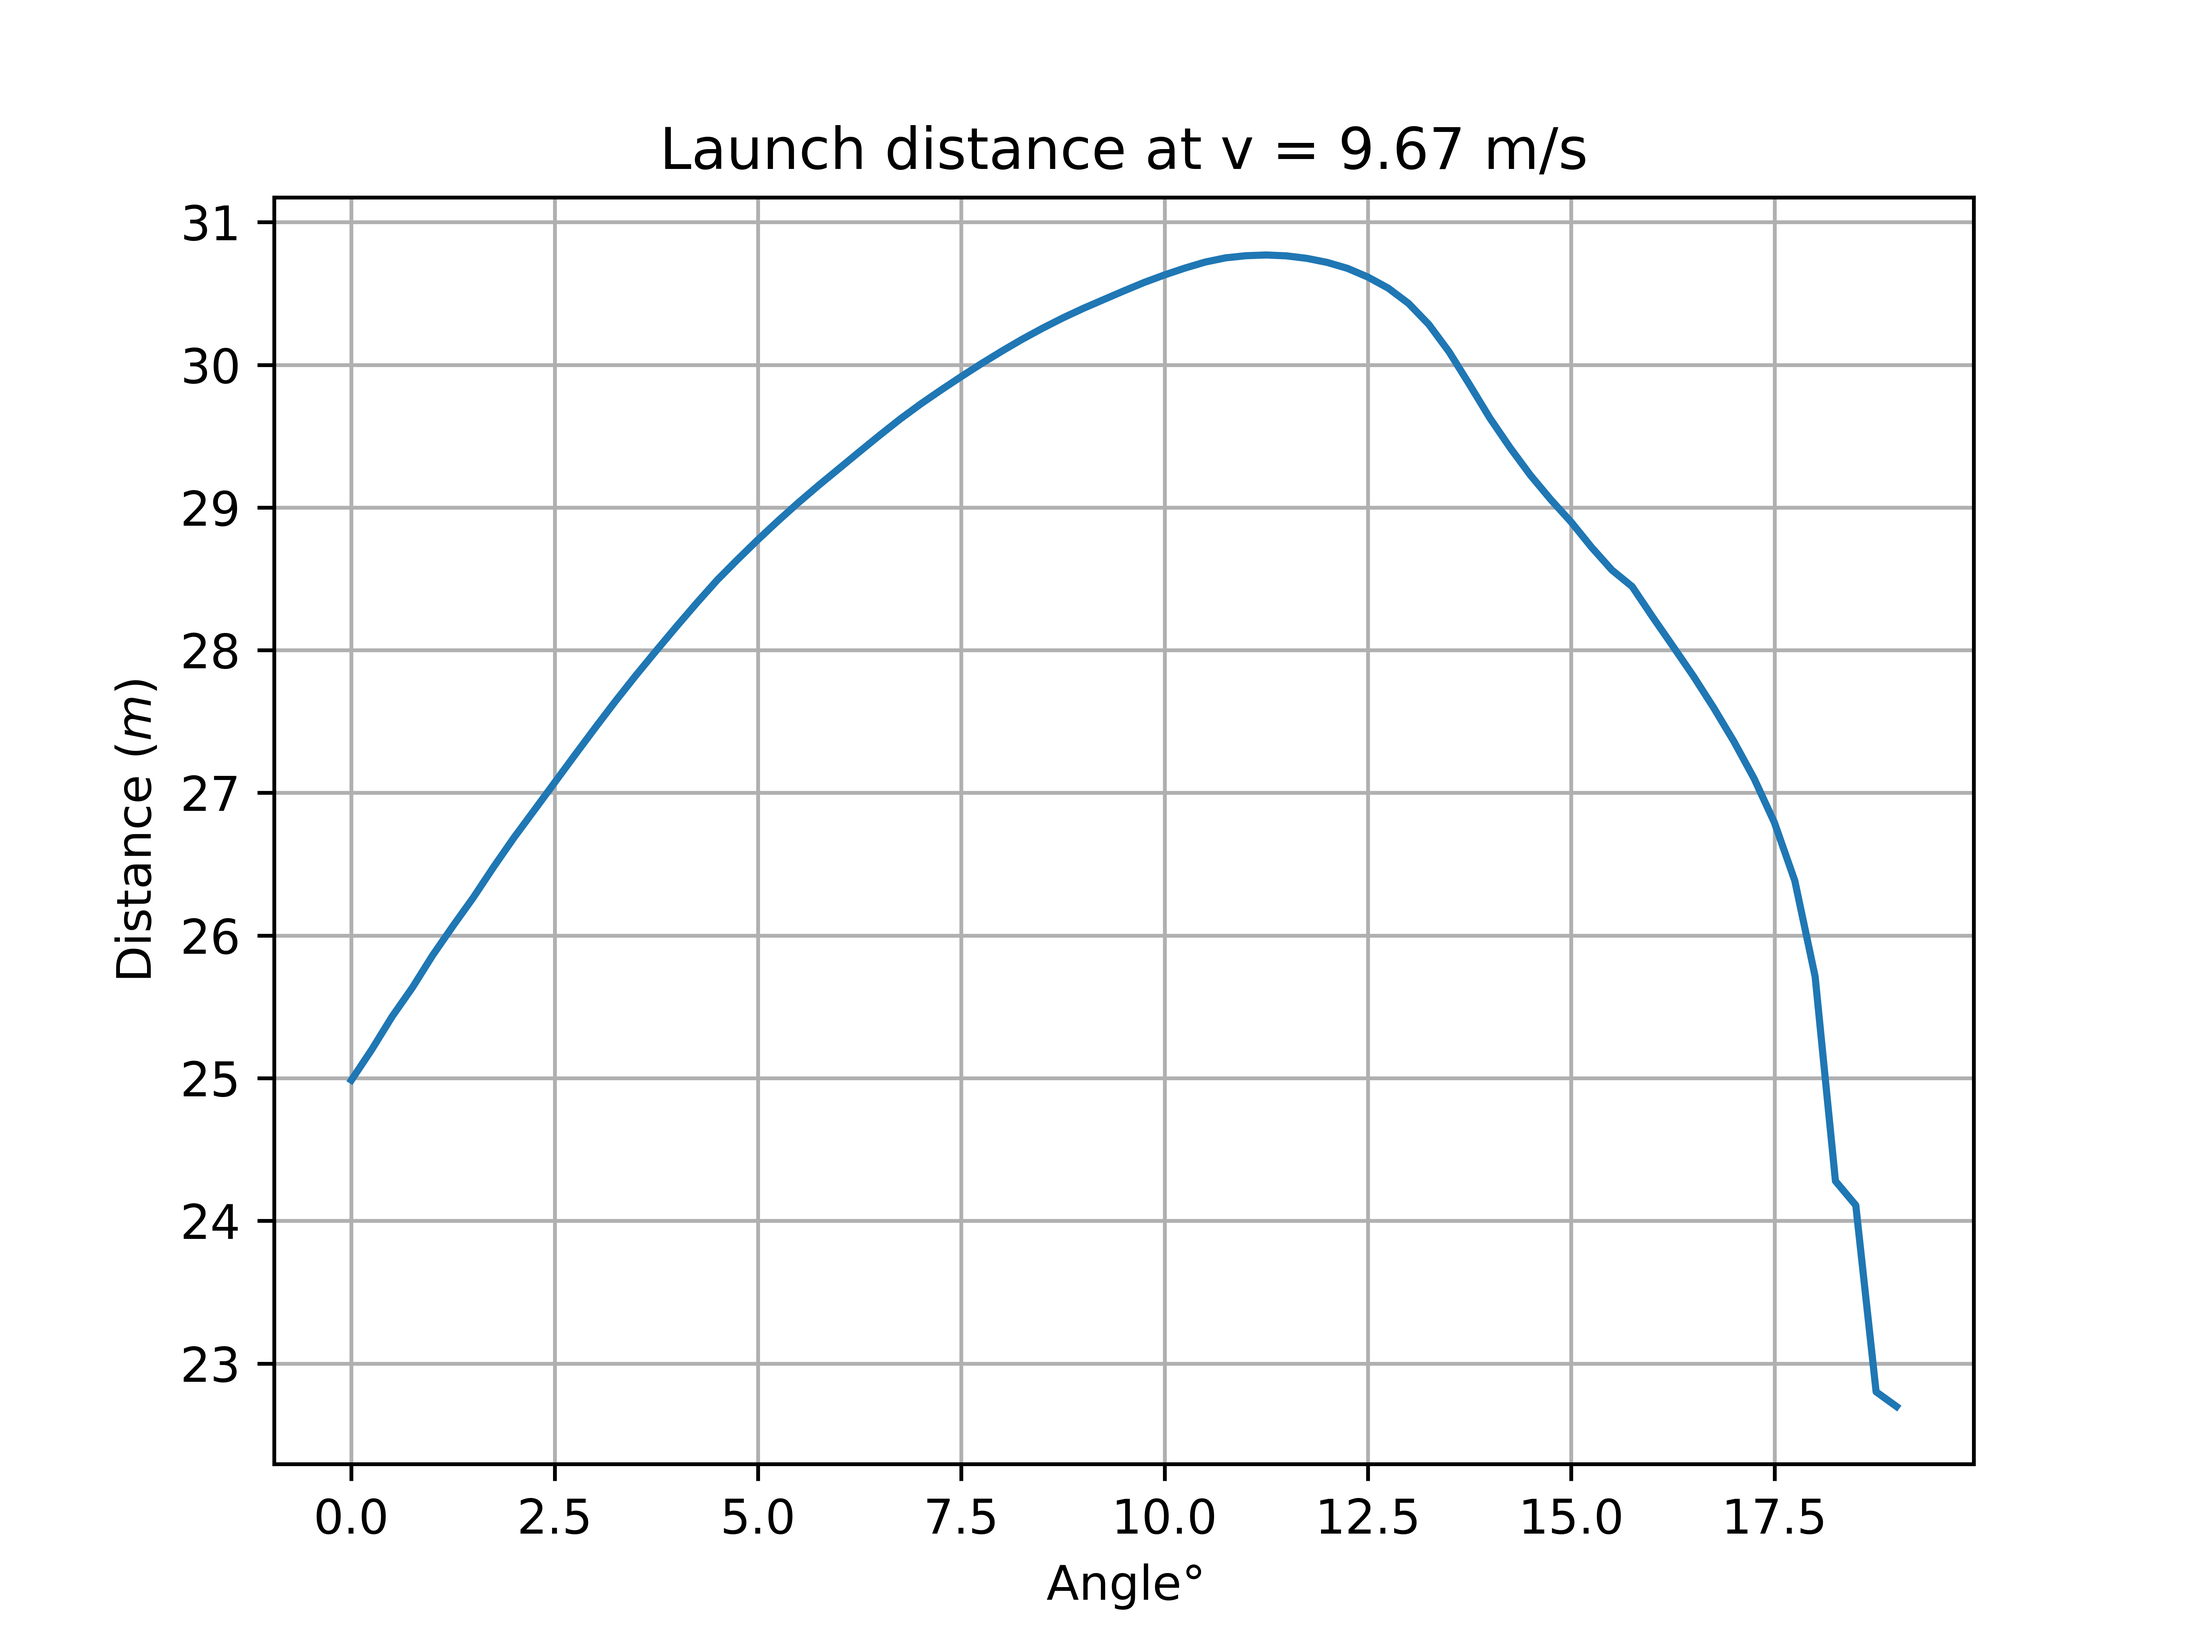
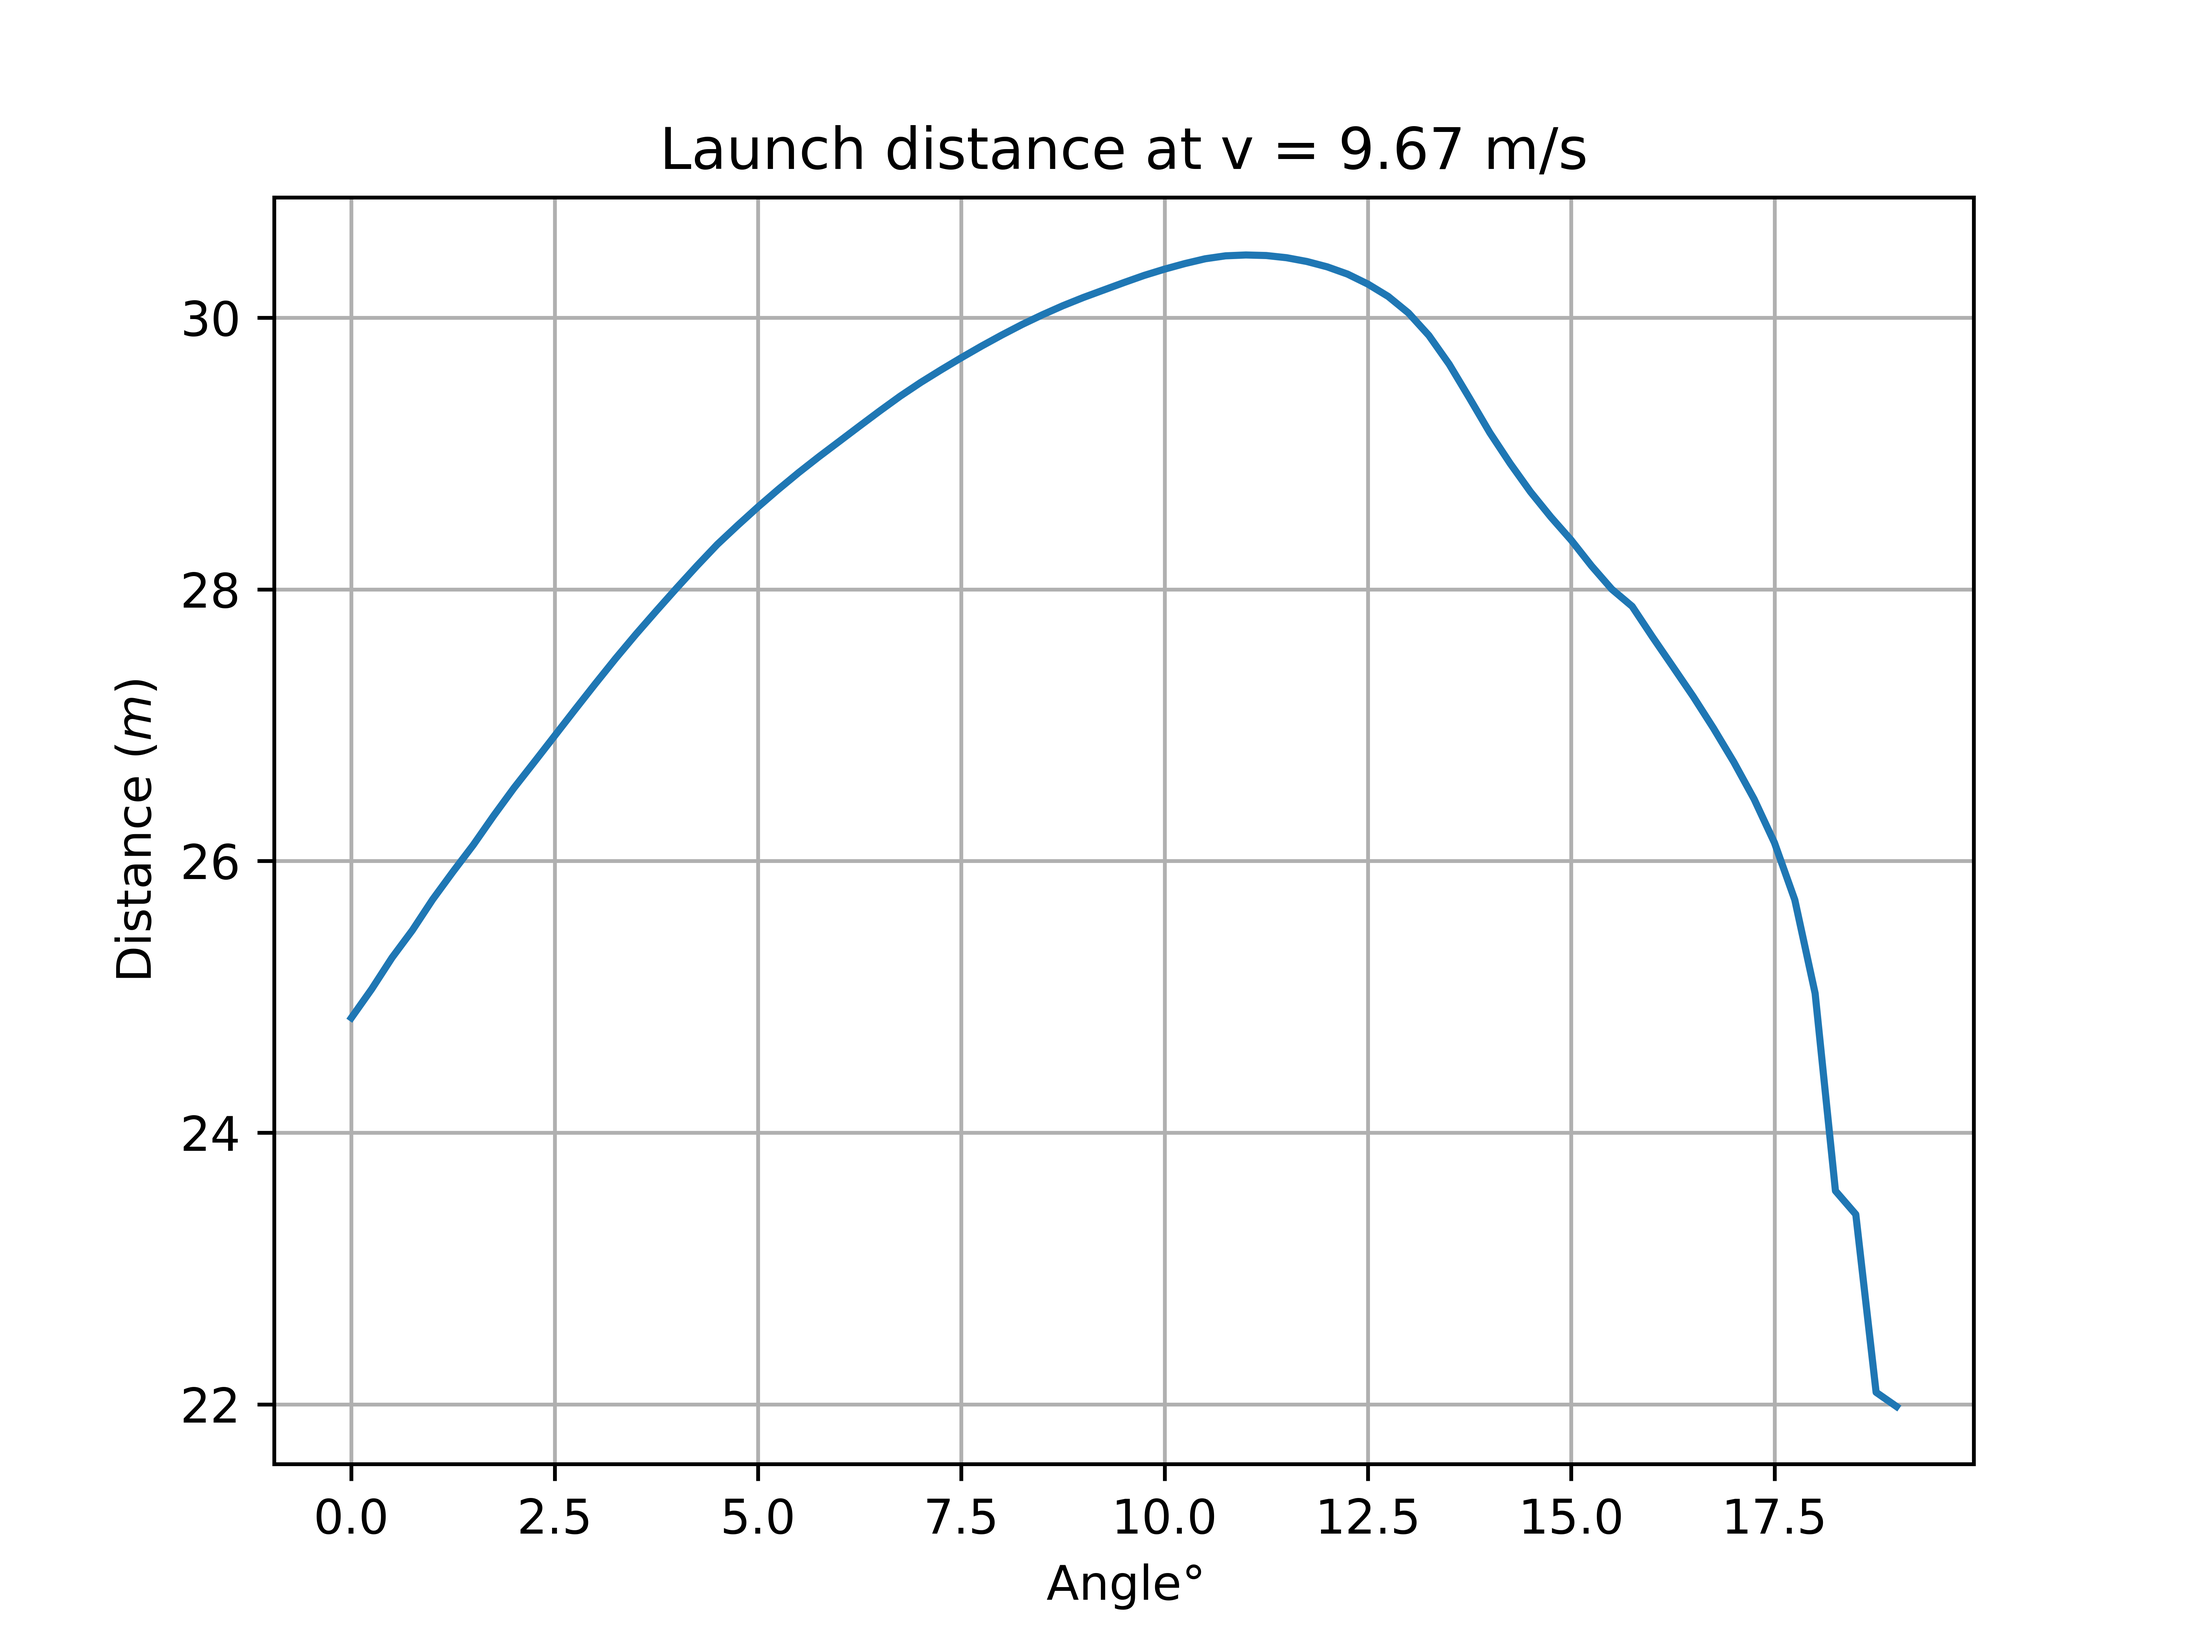
More precise area

diff --git a/launch.py b/launch.py
@@ -4,7 +4,7 @@ import numpy as np
 import matplotlib.pyplot as plt
 
 rho = 1.204
-A = 0.03
+A = 0.03325
 m = 0.035
 coef = rho * A /(2 * m)
 
